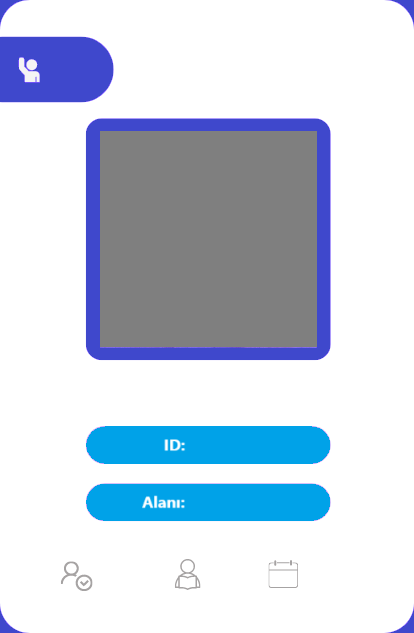
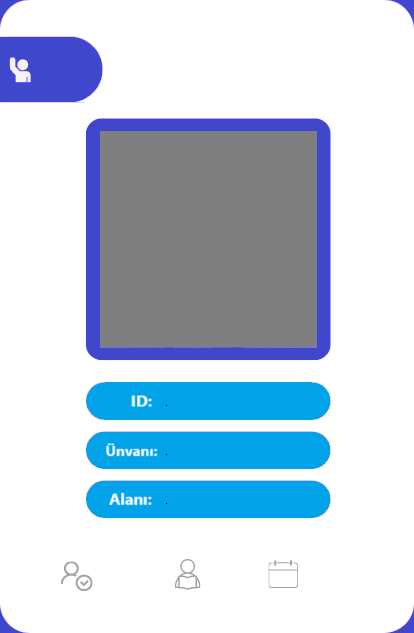
DataToDataandDatetimeUpdate
Gerekli database islemleri guncelleme ayarlari kullanici artis plani ve taninan yuzun anlik olarak datetimesi guncellendi.

diff --git a/main.py b/main.py
@@ -12,12 +12,16 @@ from firebase_admin import credentials
 from firebase_admin import db
 from firebase_admin import storage
 from firebase_admin.storage import bucket
+from numpy.ma.core import array
+from datetime import datetime
 
 cred = credentials.Certificate("serviceAccountKey.json")
 firebase_admin.initialize_app(cred,{
     'databaseURL': "https://yuz-tanima-bitirme-default-rtdb.europe-west1.firebasedatabase.app/",
     'storageBucket': "yuz-tanima-bitirme.firebasestorage.app"
 })
+
+bucket = storage.bucket() #image data alma
 
 cap = cv2.VideoCapture(0)
 cap.set(3, 640)  # Genisligini ayarladim
@@ -43,11 +47,12 @@ print("Encode File Yuklendi")
 
 modeType = 0
 counter = 0
+id = -1
+imgUser = []
 
 while True:
     success, img = cap.read()  # kameradan yakalar
-    #4de birine dusuyorum boyle hesaplama daha kolay oluyormus
-    imgS = cv2.resize(img, (0,0),None,0.25,0.25)
+    imgS = cv2.resize(img, (0,0),None,0.25,0.25) #4de birine dusuyorum boyle hesaplama daha kolay oluyormus
     imgS = cv2.cvtColor(imgS, cv2.COLOR_BGR2RGB)
 
     faceCurFrame = face_recognition.face_locations(imgS)
@@ -55,16 +60,16 @@ while True:
 
     #array[start_row:end_row, start_col:end_col] 480 - 640 ve 633 - 414 tesaduf degil resimlerin dikey yatay uzunluklari
     imgBackround[162 : 162+480, 55 : 55+640] = img # y162.pxten basla y ekseni boyunca resimin boyu kadar ilerle, x44.pxten basla x ekseni boyunca resimin eni kadar ilerle
-    imgBackround[44 : 44+633, 808: 808+414] = modList[0] # y44.pxten basla y ekseni boyunca resimin boyu(633px) kadar ilerle, x808.pxten basla x ekseni boyunca resimin eni kadar ilerle
+    imgBackround[44 : 44+633, 808: 808+414] = modList[modeType] # y44.pxten basla y ekseni boyunca resimin boyu(633px) kadar ilerle, x808.pxten basla x ekseni boyunca resimin eni kadar ilerle
 
     for encodeFace, faceLoc in zip(encodeCurFrame, faceCurFrame):
         matches = face_recognition.compare_faces(encodeListKnown,encodeFace)
         faceDis = face_recognition.face_distance(encodeListKnown,encodeFace)
-        print("Eslesme",matches)
-        print("Mesafe",faceDis)
 
+        # print("Dogruluk",matches)
+        # # print("Mesafe",faceDis) #Yuz tanima yapisini anlama
         matchIndex = np.argmin(faceDis)
-        print("Eslesme",matchIndex)
+        # print("Eslesen Resim Indexi: ",matchIndex)
 
         if matches[matchIndex]:
             # print("Yuz Tespit Edildi")
@@ -73,17 +78,73 @@ while True:
             y1, x2, y2, x1 = y1 * 4, x2 * 4, y2 * 4, x1 * 4
             bbox = 55 + x1, 162 + y1, x2-x1, y2-y1
             imgBackround = cvzone.cornerRect(imgBackround,bbox, rt=0) #Yuz cizdirme
-
-            if counter = 0:
+            id = userIds[matchIndex]
+            if counter == 0:
                 counter = 1
-    if counter !=0
+                modeType = 1 #Sagdaki kullanici bilgi panelinin gorunumunu degistir
+    if counter !=0:
+        if counter ==1: #indirecegim veriler icin yazdigim kod kismi
+            userInfo = db.reference(f'Users/{id}').get() #idsi databasedeki belirtilen tabloyla uyusuyorsa ordaki verileri ver
+            print(userInfo)
+            # Resimleri storegeden alma islemi
+            blob = bucket.get_blob(f'Images/{id}.png')
+            array = np.frombuffer(blob.download_as_string(), np.uint8)
+            imgUser = cv2.imdecode(array,cv2.COLOR_BGRA2BGR)
 
-        if counter ==1
-            
+            #Algilanan yuzun aktif son giris tarhini duncelliyoruz
+            datetimeObject = datetime.strptime(userInfo['Son_Giris_saati'],"%d-%m-%Y %H:%M:%S")
+
+            secondElapsed = (datetime.now()-datetimeObject).total_seconds()
+            print(secondElapsed)
+            if secondElapsed>30:
+                # Algilanan yuzun giris saysisini arttiriyoruz
+                ref = db.reference(f'Users/{id}')
+                userInfo['Toplam_giris'] +=1
+                ref.child('Toplam_giris').set(userInfo['Toplam_giris']) #Databaseye tekrardan guncelleyip gonderiyor
+                ref.child('Son_Giris_saati').set(datetime.now().strftime("%d-%m-%Y %H:%M:%S"))
+            else:
+                modeType=3
+                counter=0
+                imgBackround[44: 44 + 633, 808: 808 + 414] = modList[modeType]
+
+
+
+        if 10<counter<20:
+            modeType = 2
+
+        imgBackround[44: 44 + 633, 808: 808 + 414] = modList[modeType]
+
+        if counter<=10:
+            #Bilgileri ekrana yazdirma kismi yazilacak metinler, konumlari ve renkleri
+            cv2.putText(imgBackround,str(userInfo['Toplam_giris']),(845,125), #Ekrana yazilacak metni ne yazilacak analaminda ve bu metnin konumunu ayarliyorum
+                        cv2.FONT_HERSHEY_COMPLEX,1,(255,255,255),1)#Renmin font bilgisi ve rengini ayarladigim kisim
+            cv2.putText(imgBackround, str(userInfo['Isim']), (910, 120),#Burdaki konum bilgileri (x(ekseni),y(ekseni)) seklinde olur ve bu konumlari backround.pngye gore ayarliyorum
+                        cv2.FONT_HERSHEY_COMPLEX, 0.7, (100, 100, 100), 1)
+            cv2.putText(imgBackround, str(userInfo['Gorevi']), (967, 499),
+                        cv2.FONT_HERSHEY_COMPLEX, 0.5, (255, 255, 255), 1)
+            cv2.putText(imgBackround, str(userInfo['Alan']), (967, 548),
+                        cv2.FONT_HERSHEY_COMPLEX, 0.4, (255, 255, 255), 1)
+            cv2.putText(imgBackround, str(id), (967, 450),
+                        cv2.FONT_HERSHEY_COMPLEX, 0.5, (255, 255, 255), 1)
+            cv2.putText(imgBackround, str(userInfo['Toplam_giris']), (910, 625),
+                        cv2.FONT_HERSHEY_COMPLEX, 0.6, (100, 100, 100), 1)
+            cv2.putText(imgBackround, str(userInfo['Yil']), (1025, 625),
+                        cv2.FONT_HERSHEY_COMPLEX, 0.6, (100, 100, 100), 1)
+            cv2.putText(imgBackround, str(userInfo['Baslangic_tarihi']), (1125, 625),
+                        cv2.FONT_HERSHEY_COMPLEX, 0.6, (100, 100, 100), 1)
+
+            cv2.putText(imgBackround, str(userInfo['Son_Giris_saati']), (910, 590),
+                        cv2.FONT_HERSHEY_COMPLEX, 0.6, (100, 100, 100), 1)
+
+            imgBackround[175:175+216,909:909+216] = imgUser
 
         counter +=1
-
-
+        if counter>=20:
+            counter=0
+            modeType=0
+            userInfo = []
+            imgUser = []
+            imgBackround[44: 44 + 633, 808: 808 + 414] = modList[modeType]
 
     cv2.imshow("Yuz Tanima Ekrani", imgBackround)
 

diff --git a/AddDataToDatabase.py b/AddDataToDatabase.py
@@ -13,57 +13,63 @@ ref = db.reference('Users')
 data = {
     "142536":
         {
-            "Isim": "Uzeyir ASKIN",
+            "Isim": "Muhammed Uzeyir ASKIN",
             "Gorevi": "Ogrenci",
+            "Alan": "Bilgisayar Muhendisligi",
             "Baslangic_tarihi": 2020,
-            "Toplam_giris":6,
+            "Toplam_giris":777,
             "Yil":4,
-            "Son_Giris_saati": "2024-12-19 04.25.01"
+            "Son_Giris_saati": "10-12-2024 04:25:01"
         },
     "172839":
         {
             "Isim": "Ilber ORTAYLI",
             "Gorevi": "Profesor",
+            "Alan": "Tarih",
             "Baslangic_tarihi": 2007,
-            "Toplam_giris":8,
+            "Toplam_giris":0,
             "Yil":9,
-            "Son_Giris_saati": "2023-10-14 14.29.45"
+            "Son_Giris_saati": "10-12-2024 04:25:01"
         },
     "193728":
         {
             "Isim": "Zafer SERIN",
             "Gorevi": "Ogretim Gorevlisi",
+            "Alan": "Bilgisayar Muhendisligi",
             "Baslangic_tarihi": 2014,
-            "Toplam_giris":72,
+            "Toplam_giris":0,
             "Yil":9,
-            "Son_Giris_saati": "2024-12-26 09.01.32"
+            "Son_Giris_saati": "10-12-2024 04:25:01"
         },
     "147896":
         {
             "Isim": "UĞUR YÜZGEÇ",
             "Gorevi": "Prof. Dr.",
+            "Alan": "Bilgisayar Muhendisligi",
             "Baslangic_tarihi": 2010,
-            "Toplam_giris":144,
+            "Toplam_giris":0,
             "Yil":15,
-            "Son_Giris_saati": "2023-10-14 14.29.45"
+            "Son_Giris_saati": "10-12-2024 04:25:01"
         },
     "159357":
         {
             "Isim": "EMRE DANDIL",
             "Gorevi": "Doç. Dr.",
+            "Alan": "Bilgisayar Muhendisligi",
             "Baslangic_tarihi": 2011,
-            "Toplam_giris":125,
+            "Toplam_giris":0,
             "Yil":14,
-            "Son_Giris_saati": "2023-10-14 14.29.45"
+            "Son_Giris_saati": "10-12-2024 04:25:01"
         },
     "369874":
         {
             "Isim": "Yusuf TÜRKEN",
             "Gorevi": "Ogrenci",
+            "Alan": "Bilgisayar Muhendisligi",
             "Baslangic_tarihi": 2020,
-            "Toplam_giris":19,
+            "Toplam_giris":0,
             "Yil":5,
-            "Son_Giris_saati": "2023-10-14 14.29.45"
+            "Son_Giris_saati": "10-12-2024 04:25:01"
         }
 }
 #verileri gondermek icin
